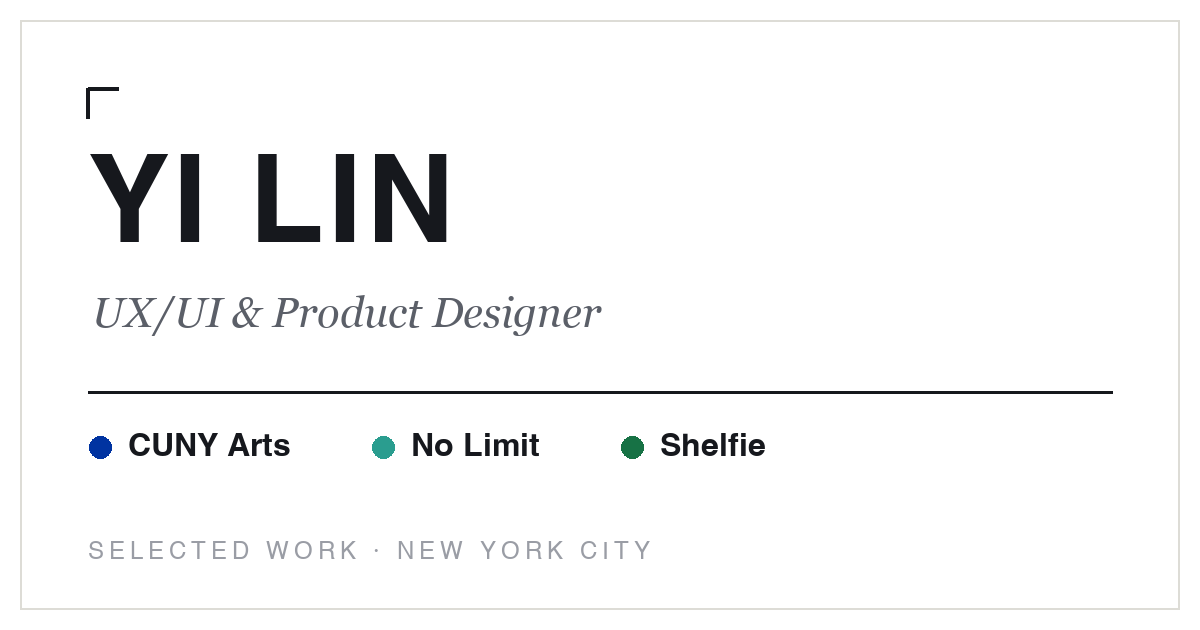
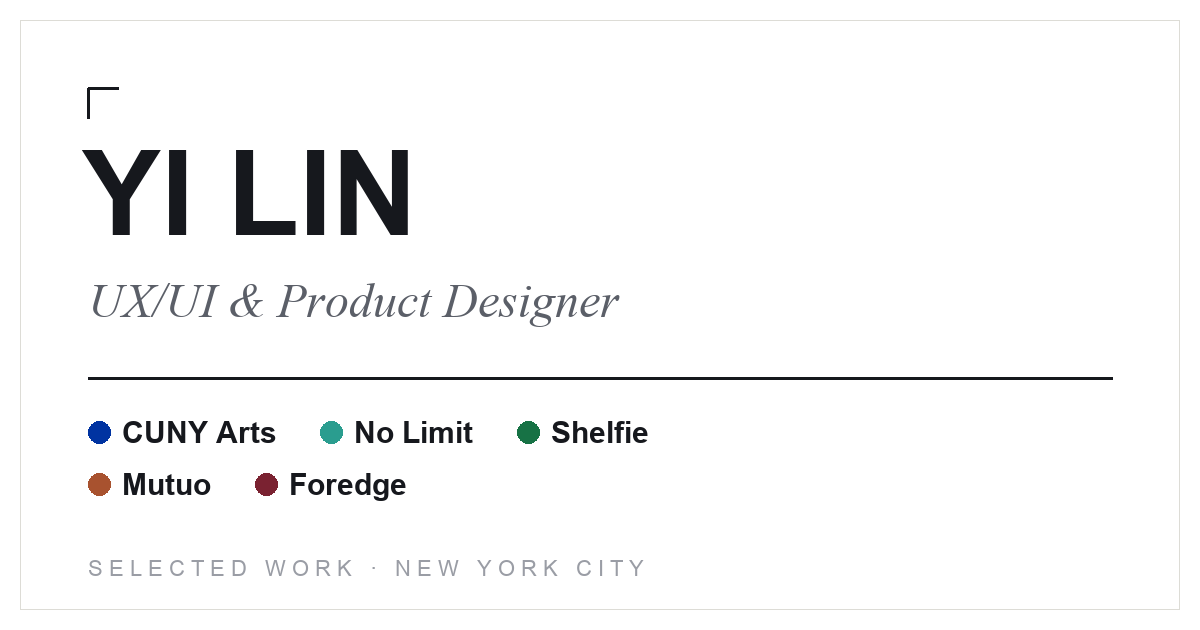
Add Mutuo and Foredge as AI-built case studies
Two deployed full-stack apps join the three prototype case studies, both
designed and built with an AI coding agent — which is the thing they are
here to show.

- Mutuo (04): skill-swapping directory, re-read end to end and repaired
  against a test suite. The CTA now points at the live deployment; the
  repo link and `npm test` note move into the caveat under it.
- Foredge (05): reading log over the Open Library API. New --foredge
  accent for both themes, and a shelf-and-tick-gauge motif.

An optional `build` field on a case is what marks it as AI-built: it
adds the "Built with AI" chip to the card footer and a third "Built
with" column to the viewer meta row. `protoLabel` and `role` join it as
optional overrides for the CTA text and the meta row.

Foredge's IA block aligns on the left edge with indentation only —
.iablock is set in a proportional font, so space-padded columns drift
apart across rows whose labels differ in width or weight.

og.png redrawn from the same tokens to carry all five case names on two
rows; meta descriptions, og:image:alt, README and CLAUDE.md follow.

diff --git a/index.html b/index.html
@@ -4,7 +4,7 @@
 <meta charset="UTF-8">
 <meta name="viewport" content="width=device-width, initial-scale=1">
 <title>Yi Lin — UX/UI & Product Designer</title>
-<meta name="description" content="Yi Lin is a New York–based UX/UI and product designer. Selected work: CUNY Arts, No Limit, Shelfie.">
+<meta name="description" content="Yi Lin is a New York–based UX/UI and product designer. Selected work: CUNY Arts, No Limit, Shelfie, Mutuo, Foredge.">
 <link rel="canonical" href="https://yilin-11.github.io/">
 
 <link rel="icon" href="favicon.svg" type="image/svg+xml">
@@ -13,16 +13,16 @@
 <meta property="og:type" content="website">
 <meta property="og:url" content="https://yilin-11.github.io/">
 <meta property="og:title" content="Yi Lin — UX/UI & Product Designer">
-<meta property="og:description" content="New York–based UX/UI and product designer. Selected work: CUNY Arts, No Limit, Shelfie — each shipped as a working prototype.">
+<meta property="og:description" content="New York–based UX/UI and product designer. Selected work: CUNY Arts, No Limit, Shelfie, Mutuo, Foredge — interactive prototypes and full-stack apps built with AI.">
 <meta property="og:image" content="https://yilin-11.github.io/og.png">
 <meta property="og:image:width" content="1200">
 <meta property="og:image:height" content="630">
-<meta property="og:image:alt" content="Yi Lin — UX/UI & Product Designer. Selected work: CUNY Arts, No Limit, Shelfie.">
+<meta property="og:image:alt" content="Yi Lin — UX/UI & Product Designer. Selected work: CUNY Arts, No Limit, Shelfie, Mutuo, Foredge.">
 <meta property="og:site_name" content="Yi Lin">
 
 <meta name="twitter:card" content="summary_large_image">
 <meta name="twitter:title" content="Yi Lin — UX/UI & Product Designer">
-<meta name="twitter:description" content="New York–based UX/UI and product designer. Selected work: CUNY Arts, No Limit, Shelfie — each shipped as a working prototype.">
+<meta name="twitter:description" content="New York–based UX/UI and product designer. Selected work: CUNY Arts, No Limit, Shelfie, Mutuo, Foredge — interactive prototypes and full-stack apps built with AI.">
 <meta name="twitter:image" content="https://yilin-11.github.io/og.png">
 
 <link rel="preconnect" href="https://fonts.googleapis.com">
@@ -32,7 +32,7 @@
 :root{
   --paper:#FFFFFF; --ink:#16181D; --ink-2:#5B5F68; --ink-3:#9A9DA5;
   --line:#DDDCD6; --line-2:#C2C1BA; --card:#FFFFFF;
-  --cuny:#0033A1; --nolimit:#2A9D8F; --shelfie:#177245;
+  --cuny:#0033A1; --nolimit:#2A9D8F; --shelfie:#177245; --mutuo:#A8522F; --foredge:#7A2231;
   --sg:'Space Grotesk',system-ui,sans-serif;
   --ss:'Source Serif 4',Georgia,serif;
 }
@@ -40,7 +40,7 @@
   :root{
     --paper:#121316; --ink:#EDECE8; --ink-2:#A8ABB2; --ink-3:#6B6E76;
     --line:#26282D; --line-2:#3A3D44; --card:#1A1C20;
-    --cuny:#5B82E0; --nolimit:#4DBFAF; --shelfie:#3FA372;
+    --cuny:#5B82E0; --nolimit:#4DBFAF; --shelfie:#3FA372; --mutuo:#D4835C; --foredge:#E28B98;
   }
 }
 *{box-sizing:border-box;margin:0;padding:0}
@@ -99,7 +99,9 @@ nav.worknav .dot{width:7px;height:7px;border-radius:50%;flex-shrink:0}
 .wc-body h3{font-weight:700;font-size:21px;letter-spacing:-.01em}
 .wc-body h3 .thin{font-weight:400;color:var(--ink-2)}
 .wc-body .hook{font-family:var(--ss);font-style:italic;font-size:14px;color:var(--ink-2);margin-top:4px}
-.wc-foot{border-top:1px solid var(--line);margin-top:14px;padding-top:10px;display:flex;justify-content:space-between;font-size:11px;letter-spacing:.08em;color:var(--ink-3)}
+.wc-foot{border-top:1px solid var(--line);margin-top:14px;padding-top:10px;display:flex;justify-content:space-between;gap:12px;font-size:11px;letter-spacing:.08em;color:var(--ink-3)}
+.wc-foot .built{color:var(--acc);font-weight:500;white-space:nowrap;display:flex;align-items:center;gap:5px}
+.wc-foot .built::before{content:"";width:5px;height:5px;border-radius:50%;background:var(--acc)}
 
 .list{display:none;flex-direction:column}
 .list .row{
@@ -161,6 +163,7 @@ section.page p+p{margin-top:14px}
 }
 .proto-cta:hover{background:var(--acc);color:var(--paper)}
 .proto-note{font-size:12px;color:var(--ink-3);margin-top:8px;line-height:1.55}
+.proto-note a{color:var(--acc);text-decoration:underline;text-underline-offset:2px}
 
 /* chapter nav pills */
 .chapnav{display:flex;gap:8px;flex-wrap:wrap;margin:28px 0 8px;position:sticky;top:78px;background:var(--paper);padding:10px 0;z-index:4;border-bottom:1px solid var(--line)}
@@ -185,6 +188,7 @@ section.page p+p{margin-top:14px}
 .statgrid b{font-size:22px;font-weight:700;display:block;letter-spacing:-.01em}
 .statgrid span{font-size:11.5px;color:var(--ink-2);line-height:1.4;display:block;margin-top:2px}
 .iablock{font-family:var(--sg);font-size:12.5px;line-height:1.9;background:var(--card);border:1px solid var(--line);padding:18px 20px;margin:14px 0;overflow-x:auto;white-space:pre;color:var(--ink-2)}
+code{font-family:var(--sg);font-size:.88em;background:var(--card);border:1px solid var(--line);border-radius:4px;padding:1px 6px;color:var(--ink);white-space:nowrap}
 .iablock b{color:var(--ink)}
 .tasklist{border:1px solid var(--line);margin:14px 0}
 .tasklist .trow{display:grid;grid-template-columns:44px 1fr;border-bottom:1px solid var(--line)}
@@ -251,6 +255,8 @@ section.page p+p{margin-top:14px}
       <button onclick="openCase(0)"><span class="num">01</span><span class="dot" style="background:var(--cuny)"></span>CUNY Arts</button>
       <button onclick="openCase(1)"><span class="num">02</span><span class="dot" style="background:var(--nolimit)"></span>No Limit</button>
       <button onclick="openCase(2)"><span class="num">03</span><span class="dot" style="background:var(--shelfie)"></span>Shelfie</button>
+      <button onclick="openCase(3)"><span class="num">04</span><span class="dot" style="background:var(--mutuo)"></span>Mutuo</button>
+      <button onclick="openCase(4)"><span class="num">05</span><span class="dot" style="background:var(--foredge)"></span>Foredge</button>
       <span class="navlab" style="margin-top:28px">Info</span>
       <a href="#about" onclick="toggleDrawer(false)">About</a>
       <a href="#contact" onclick="toggleDrawer(false)">Contact</a>
@@ -278,7 +284,8 @@ section.page p+p{margin-top:14px}
       <h2>About</h2>
       <p><b>I'm a maker and digital designer who helps people build things they didn't think they could.</b> My work runs from responsive redesigns to mobile apps to products that fold AI into everyday routines.</p>
       <p>I hold a B.A. in Digital Design (Magna Cum Laude) from City College. Three instincts carry across everything here: reduce the cost of the first step, design the failure states, and make progress visible.</p>
-      <p>Every case here follows the same spine — <b>Research → Pain points → IA → Wireframes → Validation</b> — and each shipped as a working prototype, not just frames.</p>
+      <p>Every case here follows the same spine — <b>Research → Pain points → IA → Wireframes → Validation</b> — and none of them stops at frames. Three shipped as interactive prototypes; the last two are full-stack apps, deployed and running.</p>
+      <p><b>Those two I designed and built with an AI coding agent.</b> That changes the pace, not the job. Code arrives faster than anyone can read it, so the discipline moves to deciding what to keep: on Mutuo, nothing counted as fixed until a failing test said it was; on Foredge, every way the app can fail got a drawn state instead of a blank screen. I use AI to get to a running app — the decisions inside it are still mine to defend.</p>
     </section>
 
     <section class="page" id="contact">
@@ -441,6 +448,126 @@ const CASES=[
      <div class="trow"><div class="tn">T4</div><div class="tb"><div class="task">Pick a cookable-right-now dish</div><div class="crit">Uses the missing badges and sorting, ≤ 20 s</div></div></div>
    </div>
    <p>AI-specific metrics extend standard usability: <b>recognition acceptance rate</b>, <b>correction behavior rate</b> (if nobody ever corrects, the confirmation step is theater), <b>recommendation adoption</b>, per-path import success, and <b>failure-path completion</b> — after a link fails, how many users follow the fallback and succeed. North star post-launch: at least one full photo → cook loop per week, with Use-soon consumption vs expiry-deletion as the waste-reduction proof.</p>`]
+},
+/* ---------- 04 · MUTUO ---------- */
+{
+  key:'mutuo', acc:'var(--mutuo)', name:'Mu<span class="thin">tuo</span>', plain:'Mutuo',
+  type:'Full-stack repair · failure-state design', stack:'Express · Sequelize · JS',
+  role:'Solo — design and code', build:'Claude Code',
+  proto:'https://mutuo-demo.vercel.app/', protoLabel:'Open the live app ↗',
+  protoNote:'A real deployment, seeded with twelve members — the login page offers a demo account and fills the form in for you. First request after an idle spell waits on a cold start. <a href="https://github.com/yilin-11/mutuo" target="_blank" rel="noopener">Source on GitHub ↗</a> — every defect below has a test that fails without its fix; clone it and run <code>npm test</code>.',
+  hook:'Teach what you know, learn what you don’t.',
+  lede:['Mutuo is a skill-swapping directory: each member lists one skill they can teach and one they want to learn, then finds someone nearby to trade with. I built it early, while I was still learning the stack.',
+        'Coming back to it, the interesting failures were not the ones that crashed. They were the ones that looked like nothing had happened — a save button that quietly discarded the form, a page that rendered blank with no error, a directory that looked broken because it was empty. This case is that second pass: reading my own code for the states I never designed.',
+        'I did that pass with an AI coding agent, which is why the case is written around a test suite rather than a diff. Code arrives faster than anyone can review it by eye, so the working rule was that nothing counted as a defect until a failing test reproduced it, and nothing counted as fixed until that test passed. Chapter 05 has the one place that rule paid for itself — the obvious fix was wrong, and the test is what said so.'],
+  motif:`<svg viewBox="0 0 640 360" fill="none" role="img" aria-label="Two skill tags exchanging, one each way"><rect x="96" y="118" width="182" height="70" rx="12" stroke="var(--mutuo)" stroke-width="3"/><text x="187" y="163" text-anchor="middle" font-family="Space Grotesk" font-weight="700" font-size="25" fill="var(--mutuo)">TEACH</text><rect x="362" y="172" width="182" height="70" rx="12" stroke="var(--mutuo)" stroke-width="3"/><text x="453" y="217" text-anchor="middle" font-family="Space Grotesk" font-weight="700" font-size="25" fill="var(--mutuo)">LEARN</text><path d="M288 148 H 352" stroke="var(--ink-2)" stroke-width="2.5" stroke-linecap="round"/><path d="M342 140 L 352 148 L 342 156" stroke="var(--ink-2)" stroke-width="2.5" stroke-linecap="round" stroke-linejoin="round"/><path d="M352 212 H 288" stroke="var(--ink-2)" stroke-width="2.5" stroke-linecap="round"/><path d="M298 204 L 288 212 L 298 220" stroke="var(--ink-2)" stroke-width="2.5" stroke-linecap="round" stroke-linejoin="round"/><text x="320" y="296" text-anchor="middle" font-family="Source Serif 4" font-style="italic" font-size="17" fill="var(--ink-2)">one each way</text></svg>`,
+  chapters:[
+  `<p>No user study here — this was an audit of a shipped thing. I read all 35 source files end to end, then wrote tests that pinned down what the app <i>actually did</i> rather than what it looked like it did. Where behaviour and intent disagreed, the test recorded the behaviour first, and the fix came second.</p>
+   <div class="statgrid">
+     <div><b>1,651</b><span>lines of application code, read line by line</span></div>
+     <div><b>13</b><span>defects found and reproduced</span></div>
+     <div><b>10</b><span>of those gave the person using the app no signal at all</span></div>
+     <div><b>37</b><span>tests written to hold the repairs in place</span></div>
+   </div>
+   <p>That third number is the finding. Only two of the thirteen announced themselves as a crash, and exactly one produced an error message — which pointed at the wrong form. Everything else failed the way software fails a person who has no console open: <b>the screen simply did not change</b>. A designer's instinct is to ask what a screen shows when things go wrong; this codebase mostly answered "nothing."</p>`,
+  `<p>Restated as the sentences a member would actually say:</p>
+   <ul>
+     <li><b>"I filled in the form and pressed save. Nothing happened."</b> Submit was wired to a link, so the browser navigated away before the request finished. The profile was never written — and the app said so in no way whatsoever.</li>
+     <li><b>"The page is blank."</b> Asset paths were relative, so the same profile URL worked with one trailing slash and loaded no JavaScript at all without it. A white screen, no error, nothing to report.</li>
+     <li><b>"It says my email is taken. I wasn't changing my email."</b> Two rapid submits collided in the database, and the collision was reported using the signup form's error copy. The one visible message in the system was about the wrong screen.</li>
+     <li><b>"There's nobody here."</b> A new install opened onto an empty directory and an empty random match. Indistinguishable from broken.</li>
+     <li><b>"I typed my password wrong and it just sat there."</b> The failure was written to the developer console. The person looking at the form got no response of any kind.</li>
+     <li><b>"It logged me out again."</b> Sessions lived in memory, so every restart silently signed everybody out mid-task.</li>
+   </ul>`,
+  `<p>The structural question was not where pages sat in a menu — it was <b>which side of the login each thing lived on</b>, and the old answer was inconsistent. Pages were guarded; the data behind them was not. The directory page required a session, while the request that filled it with every member's name, city and email address answered anyone at all.</p>
+   <div class="iablock"><b>Public</b>      landing · log in · sign up
+<b>Members</b>     directory · profile form · random match · member detail
+<b>Data</b>        every member-facing request now sits on the members side,
+            including the one that resolves a postal code to a map pin</div>
+   <p>A second boundary was physical rather than logical. Page files were sitting inside the folder the server hands out verbatim, so the member area could be fetched by its filename without ever passing the login check — the guard was real, and the pages were reachable around it. Moving them out was the fix; the lesson was that <b>an access rule is only as good as the path that cannot skip it</b>.</p>`,
+  `<p>Then the part that was actually missing: the states nobody had drawn. Each screen had one design — the happy one. These are the rest, and every one of them is now a deliberate choice rather than an accident.</p>
+   <ul>
+     <li><b>Empty.</b> A fresh directory now ships with ten members forming five reciprocal pairs, so the first screen demonstrates the idea instead of implying failure. "No members yet — be the first" replaces blankness when it really is empty.</li>
+     <li><b>No results.</b> Searching now says which term found nothing, quoted back, rather than emptying the page.</li>
+     <li><b>Working.</b> The random match disables its own button and says "Finding someone…" instead of appearing inert.</li>
+     <li><b>Rejected.</b> Form errors name the field and say what is wrong, in the voice of the form being filled in — never the neighbouring one.</li>
+     <li><b>Expired.</b> A session that ran out returns the member to the login page, rather than printing "you need to be logged in" onto a directory that has nothing in it.</li>
+     <li><b>Too many attempts.</b> Repeated failed logins are refused with a wait time attached, so the limit is legible instead of feeling like a fault.</li>
+     <li><b>Not found.</b> A member id that does not exist says so, distinct from a member who exists but has filled in nothing.</li>
+   </ul>`,
+  `<p>Validated by execution, not by users — and that distinction matters enough to state plainly. This was a correctness pass, so the instrument is a test suite that drives the real application end to end: 37 tests over 514 lines, each named for the defect it holds down.</p>
+   <div class="tasklist">
+     <div class="trow"><div class="tn">T1</div><div class="tb"><div class="task">Fetch the directory with no session</div><div class="crit">Refused. Before the fix it returned every member's email address</div></div></div>
+     <div class="trow"><div class="tn">T2</div><div class="tb"><div class="task">Request a member page by its filename</div><div class="crit">Not found. Before the fix it served the member area around the guard</div></div></div>
+     <div class="trow"><div class="tn">T3</div><div class="tb"><div class="task">Submit the profile form twice at once</div><div class="crit">Both save, one profile exists, no error about an unrelated form</div></div></div>
+     <div class="trow"><div class="tn">T4</div><div class="tb"><div class="task">Load a member page with a trailing slash</div><div class="crit">Assets referenced absolutely, so the page is never blank</div></div></div>
+   </div>
+   <p>One test earned its keep by rejecting my first fix. The textbook repair for the double-submit collision is the framework's own <code>findOrCreate</code>; the test came back red, because that call opens a transaction and this database will not run two at once. The version that shipped lets the database's uniqueness rule settle the race instead, and losing it simply means reading again. <b>I would have shipped the wrong fix without a test to argue with.</b></p>
+   <p class="proto-note" style="margin-top:18px">The honest gap: no usability study was run. Every claim above is about behaviour I could reproduce and now prevent — not about whether the repaired flows test well with people. That is the next pass, and the states in chapter 04 are what I would put in front of them first.</p>`]
+},
+/* ---------- 05 · FOREDGE ---------- */
+{
+  key:'foredge', acc:'var(--foredge)', name:'Fore<span class="thin">dge</span>', plain:'Foredge',
+  type:'Full-stack app · third-party API', stack:'Express · PostgreSQL · EJS',
+  role:'Solo — design and code', build:'Claude Code',
+  proto:'https://foredge.onrender.com/', protoLabel:'Open the live app ↗',
+  protoNote:'Deployed and running, with five books already on the shelf. The free tier sleeps after fifteen minutes idle, so a first visit can take up to a minute to wake — everything after that is instant. <a href="https://github.com/yilin-11/foredge" target="_blank" rel="noopener">Source on GitHub ↗</a>',
+  hook:'What stays after the last page.',
+  lede:['Foredge is a reading log for one person. Search a title and Open Library fills in the author, the cover, the year and the ISBN; you supply the rating, the finish date and the notes. It sorts by rating, recency or title, and it lives in a PostgreSQL database rather than inside somebody else’s social network.',
+        'The fore edge is the outer edge of a book’s pages, opposite the spine — the rough stack of paper your thumb runs along when you flip through. The rating here is drawn after it: ten short vertical ticks, not stars. The name points at the one decision the whole interface is built around, so the two explain each other.',
+        'This one was built end to end with an AI coding agent and then actually deployed, which is the point of putting it here: the case below is organised around the decisions that were mine to make, because those are the part the agent could not supply.'],
+  motif:`<svg viewBox="0 0 640 360" fill="none" role="img" aria-label="A shelf of book spines beside a ten-tick fore-edge rating gauge"><path d="M84 232 H 336" stroke="var(--ink-2)" stroke-width="3" stroke-linecap="round"/><rect x="92" y="138" width="22" height="94" stroke="var(--ink-2)" stroke-width="2.5"/><rect x="119" y="116" width="26" height="116" stroke="var(--ink-2)" stroke-width="2.5"/><rect x="150" y="148" width="20" height="84" stroke="var(--ink-2)" stroke-width="2.5"/><rect x="175" y="84" width="28" height="130" fill="var(--foredge)"/><rect x="208" y="130" width="22" height="102" stroke="var(--ink-2)" stroke-width="2.5"/><rect x="235" y="110" width="25" height="122" stroke="var(--ink-2)" stroke-width="2.5"/><rect x="265" y="142" width="20" height="90" stroke="var(--ink-2)" stroke-width="2.5"/><rect x="290" y="122" width="26" height="110" stroke="var(--ink-2)" stroke-width="2.5"/><text x="404" y="132" font-family="Space Grotesk" font-weight="700" font-size="24" fill="var(--foredge)">7 / 10</text><rect x="404" y="150" width="4" height="54" fill="var(--foredge)"/><rect x="418" y="150" width="4" height="54" fill="var(--foredge)"/><rect x="432" y="150" width="4" height="54" fill="var(--foredge)"/><rect x="446" y="150" width="4" height="54" fill="var(--foredge)"/><rect x="460" y="150" width="4" height="54" fill="var(--foredge)"/><rect x="474" y="150" width="4" height="54" fill="var(--foredge)"/><rect x="488" y="150" width="4" height="54" fill="var(--foredge)"/><rect x="502" y="150" width="4" height="54" fill="var(--line-2)"/><rect x="516" y="150" width="4" height="54" fill="var(--line-2)"/><rect x="530" y="150" width="4" height="54" fill="var(--line-2)"/><text x="320" y="300" text-anchor="middle" font-family="Source Serif 4" font-style="italic" font-size="17" fill="var(--ink-2)">ten ticks, not five stars</text></svg>`,
+  chapters:[
+  `<p>The research here was not about people, it was about an API — because what the machine can fill in decides what the reader has to type, and a reading log dies at exactly the point where logging a book means copying a title, an author, a year and a cover URL by hand. So I read Open Library’s search and cover endpoints before drawing anything.</p>
+   <div class="statgrid">
+     <div><b>6</b><span>fields one title search can fill in for you</span></div>
+     <div><b>4</b><span>fields only the reader can supply</span></div>
+     <div><b>2</b><span>ways covers are served, neither guaranteed</span></div>
+     <div><b>1</b><span>table, because the data is genuinely one row per book</span></div>
+   </div>
+   <p>Two findings shaped everything after. First, <b>covers cannot be assumed</b>. Open Library serves them by cover id and by ISBN; one ISBN can point at several editions, and not every edition has artwork at all. Any design that treats a cover as a given will show broken images on somebody’s real shelf — so both identifiers are stored, cover id is tried first, and a book with neither gets a drawn spine rather than a gap.</p>
+   <p>Second, the schema splits cleanly in two, and that split <i>is</i> the product. <b>Title, author, ISBN, cover, year</b> are facts a lookup already knows. <b>Rating, finish date, takeaway, notes</b> are the only things that are actually yours. The machine does the clerical half; every field the reader touches is one no API could have answered.</p>`,
+  `<p>Stated as the sentences a reader would say, plus the two nobody would ever report:</p>
+   <ul>
+     <li><b>"I’ll add it later."</b> Four fields of transcription per book is how a log gets abandoned. Search fills them, and title is the only field the form insists on — a rating, a date and notes can all arrive whenever they arrive.</li>
+     <li><b>"The date is off by a day."</b> A <code>DATE</code> column comes back through the driver as a JS <code>Date</code> read in the local timezone, so a book finished on 5 March in New York displays as 4 March. Silently wrong, in the one field the reader typed themselves.</li>
+     <li><b>"That cover is a broken image."</b> The 404 arrives after the page has already rendered, so it cannot be caught server-side — the layout has to survive an image that disappears mid-view.</li>
+     <li><b>"I left the rating blank and it wouldn’t save."</b> An untouched input posts an empty string, and writing <code>""</code> into an <code>INTEGER</code> or <code>DATE</code> column makes PostgreSQL throw. The most common way to fill the form is the way that breaks it.</li>
+     <li><b>"Nothing came back and I don’t know why."</b> Open Library answering with an error and never reaching Open Library at all are one blank result to the reader, and two completely different next moves.</li>
+     <li><b>The one nobody would report.</b> <code>ORDER BY</code> cannot take a parameterised placeholder, so the sort has to be built into the SQL — which is precisely where injection lives.</li>
+     <li><b>The one nobody would click.</b> Browsers and crawlers prefetch links, so a delete route behind an <code>&lt;a&gt;</code> can fire with nobody touching it.</li>
+   </ul>`,
+  `<p>One table. Splitting this into books, authors and notes would add joins and buy nothing, because the data really is one row per book. Tags would change that — one book has many tags, one tag has many books — and until there are tags, one table is the honest answer.</p>
+   <div class="iablock"><b>books</b> — one table, one row per book
+    <b>from Open Library</b> · title · author · isbn · cover_id · ol_key · published
+    <b>from the reader</b> · rating 1–10 · date_read · takeaway · notes
+    <b>indexed on</b> · rating DESC, date_read DESC — the two sorts people use
+
+<b>routes</b>
+    <b>read</b> · GET / — shelf + list, with ?sort= and ?q= · GET /books/:id
+    <b>write</b> · GET /books/new · POST /books · POST /books/:id/edit · POST /books/:id/delete
+    <b>data</b> · GET /api/search — Open Library, reshaped to one known format</div>
+   <p>HTML forms only speak GET and POST, so update and delete both travel over POST rather than pretending to be <code>PUT</code> and <code>DELETE</code>. Two details are load-bearing. <b>The sort parameter is a lookup key, never a string.</b> <code>?sort=</code> only ever selects an entry from a hard-coded table of three orderings, so <code>?sort=;DROP TABLE books</code> quietly falls back to the default; the search keyword takes the normal parameterised treatment. And <b>the API endpoint returns a shape the app owns</b>, not Open Library’s — eight results trimmed to the six fields the form needs, on an eight-second timeout, so an occasionally slow service cannot hang the page.</p>`,
+  `<p>The name is the design decision. The rating is not stars; it is ten short vertical ticks drawn after the fore edge of the pages. That gauge is also why the scale is ten rather than five — <b>ten ticks read as an edge, five read as a row of marks.</b> Everything else follows the same rule: make the state a drawn object rather than an absence.</p>
+   <ul>
+     <li><b>The shelf.</b> Every book is a different height, the way a real shelf looks — hashed from the title rather than randomised, so a book keeps its own height across reloads instead of jumping around the row. Hovering pulls one up out of the shelf; <code>prefers-reduced-motion</code> stops that.</li>
+     <li><b>No cover.</b> A book without artwork becomes a dark spine with its title set vertically. The same object catches the cover that 404s after render, so a failure lands on a designed state instead of a hole.</li>
+     <li><b>Empty shelf.</b> "The shelf is empty. The first book is the hard one," with the add button beside it — the first screen states the next action instead of implying breakage.</li>
+     <li><b>No results.</b> The search term is quoted back, with a way out: <i>Show everything</i>.</li>
+     <li><b>Search that failed.</b> Two messages, because the next move differs. One says Open Library returned an error and to try again; the other says check the connection, or type the details in by hand.</li>
+     <li><b>One form, two jobs.</b> Add and edit share a single template. The sort choice rides along through search as a hidden field, so finding a book never throws away the order you chose.</li>
+     <li><b>The footer is a colophon</b> — in a printed book, the note on how the thing was made. Here it carries the same: where the name comes from, where the covers come from, what it runs on.</li>
+   </ul>`,
+  `<p>Validated against deliberately hostile data rather than against users. A second seed file loads books built to break the interface, and the checks run by hand against them:</p>
+   <div class="tasklist">
+     <div class="trow"><div class="tn">T1</div><div class="tb"><div class="task">Load the shelf with the edge-case seed</div><div class="crit">A title long enough to wrap three times, a non-Latin title, and one full of quotes and angle brackets all sit in the row without breaking it or escaping into markup</div></div></div>
+     <div class="trow"><div class="tn">T2</div><div class="tb"><div class="task">Open a book whose cover 404s</div><div class="crit">Falls back to the drawn spine after the failure — never a broken image</div></div></div>
+     <div class="trow"><div class="tn">T3</div><div class="tb"><div class="task">Visit <code>/?sort=;DROP TABLE books</code></div><div class="crit">Falls back to the default order, because the parameter is only ever a lookup key</div></div></div>
+     <div class="trow"><div class="tn">T4</div><div class="tb"><div class="task">Search with the network set to offline</div><div class="crit">Shows the unreachable message and the type-it-in-by-hand fallback, not the service-error one</div></div></div>
+   </div>
+   <p>Checked on every pass alongside those: ratings at 1, at 10 and absent; books with no notes; thirty filler titles to see a full shelf; keyboard tab order and focus rings; reduced motion; and the layout at 375px and either side of the 720px breakpoint. The deployment carries one more decision — the database is Neon rather than the host’s own, because that host deletes free PostgreSQL instances after thirty days, and a link in a portfolio has to outlive that.</p>
+   <p>And the AI question, answered plainly: an agent wrote most of these lines and none of these decisions. Ten ticks instead of five stars, one table instead of three, a lookup key instead of a concatenated string, a drawn spine instead of a broken image, two failure messages instead of one — that list is the case study, and it is the part I brought. <b>Generating a reading log takes minutes now; knowing what the screen should say when Open Library is down is still the job.</b></p>
+   <p class="proto-note" style="margin-top:18px">The honest gap, as with Mutuo: no usability study. The states above are reasoned and reproducible, not yet tested with readers.</p>`]
 }
 ];
 
@@ -454,7 +581,7 @@ function renderWorkspace(){
         <div class="wc-tag"><i></i>${c.type}</div>
         <h3>${c.name}</h3>
         <p class="hook">${c.hook}</p>
-        <div class="wc-foot"><span>${c.stack}</span></div>
+        <div class="wc-foot"><span>${c.stack}</span>${c.build?`<span class="built">Built with AI</span>`:''}</div>
       </div>
     </button>`).join('');
   $('listEl').innerHTML=CASES.map((c,i)=>`
@@ -488,10 +615,11 @@ function openCase(i){
         <p class="v-hook" style="color:${c.acc}">${c.hook}</p>
         <div class="v-meta">
           <div><span class="lab">Stack</span><span class="val">${c.stack}</span></div>
-          <div><span class="lab">Role</span><span class="val">Solo designer</span></div>
+          <div><span class="lab">Role</span><span class="val">${c.role||'Solo designer'}</span></div>
+          ${c.build?`<div><span class="lab">Built with</span><span class="val" style="color:${c.acc}">${c.build}</span></div>`:''}
         </div>
         ${c.lede.map(p=>`<p class="lede">${p}</p>`).join('')}
-        <a class="proto-cta" href="${c.proto}" target="_blank" rel="noopener">Open the live prototype ↗</a>
+        <a class="proto-cta" href="${c.proto}" target="_blank" rel="noopener">${c.protoLabel||'Open the live prototype ↗'}</a>
         <p class="proto-note">${c.protoNote}</p>
         <nav class="chapnav" aria-label="Chapters">
           ${CHAPS.map((ch,n)=>`<a href="#chap-${n}" onclick="jumpChap(event,${n})">${'0'+(n+1)} ${ch}</a>`).join('')}

diff --git a/CLAUDE.md b/CLAUDE.md
@@ -16,8 +16,8 @@ python3 -m http.server 8000    # then open http://localhost:8000
 
 | Path | Status | What it is |
 | --- | --- | --- |
-| `index.html` | **active** | The entire portfolio — single self-contained file (~530 lines, inline `<style>` + `<script>`) |
-| `prototypes/*.html` | **active** | Three self-contained interactive prototypes linked from the case studies |
+| `index.html` | **active** | The entire portfolio — single self-contained file (~670 lines, inline `<style>` + `<script>`) |
+| `prototypes/*.html` | **active** | Three self-contained interactive prototypes linked from the first three case studies |
 | `mmp210/`, `mmp240/`, `citymail/` | archived | Old CUNY coursework, kept as-is for links that may exist in the wild |
 
 Treat the archived directories as frozen artifacts: fix them only if asked, and don't "modernize" or refactor them. They contain intentional oddities (e.g. the misspelled `mmp240/craigslist_redesign/stlyes.css`, p5.js 0.5.6 from CDN in `mmp210/memes` and `mmp210/self-portrait` vs. a vendored `p5.js` in `mmp210/midterm-project`).
@@ -29,9 +29,12 @@ Content and presentation are separated inside the one file: **all case-study con
 Each case object:
 
 - `key`, `plain` (plain-text name), `name` (may contain `<span class="thin">` for the two-tone title treatment)
-- `acc` — the case's accent color, always a CSS var (`var(--cuny)`, `var(--nolimit)`, `var(--shelfie)`), defined for both themes in `:root`
+- `acc` — the case's accent color, always a CSS var (`var(--cuny)`, `var(--nolimit)`, `var(--shelfie)`, `var(--mutuo)`, `var(--foredge)`), defined for both themes in `:root`
 - `type`, `stack` — shown in card footers and the viewer meta row
-- `proto` / `protoNote` — relative path to the prototype file, plus the caveat text under the CTA
+- `proto` / `protoNote` — the CTA target plus the caveat text under it. For cases 01–03 that's a relative path to a `prototypes/*.html` file; for Mutuo and Foredge it's an absolute URL to the deployed app, and `protoNote` carries an inline `<a>` to the GitHub repo.
+- `protoLabel` — optional, overrides the default CTA text `Open the live prototype ↗`
+- `role` — optional, overrides the default `Solo designer` in the viewer meta row
+- `build` — optional. Its presence is what marks a case as AI-built: it adds a `Built with AI` chip to the card footer and a third `Built with` column to the viewer meta row, whose value is this string.
 - `hook`, `lede[]` — one-liner and intro paragraphs
 - `motif` — inline SVG hero/thumbnail
 - `chapters[]` — five HTML strings, positionally matched to `CHAPS = ['Research','Pain points','IA','Wireframes','Validation']`. Adding a chapter means extending both `CHAPS` and every case's `chapters`.
@@ -46,13 +49,13 @@ Rendering flow:
 Chapter HTML uses a fixed set of styled blocks — reuse them instead of inventing new ones:
 
 - `.statgrid` with `<div><b>number</b><span>caption</span></div>` — audit metrics
-- `.iablock` — preformatted information-architecture tree (whitespace is significant)
+- `.iablock` — preformatted information-architecture tree (whitespace is significant). It is set in Space Grotesk, a **proportional** font, so space-padded columns do not line up across rows whose labels differ in width or weight. Align on the left edge with indentation only, and let the rest of each line run inline after a `·` separator (see the Foredge block); do not build multi-column tables out of spaces.
 - `.tasklist` > `.trow` > `.tn` + `.tb` (`.task` + `.crit`) — usability test tasks and success criteria
 - plain `<ul><li><b>Lead-in.</b> …</li></ul>` — pain points and design decisions
 
 ### Head assets
 
-`og.png` (1200×630), `favicon.svg`, and `apple-touch-icon.png` sit at the repo root and are referenced from `<head>` with absolute `https://yilin-11.github.io/…` URLs for the Open Graph tags (relative URLs are not resolved by most crawlers). `og.png` bakes in the name and the tagline, so **if the `<title>` or the sidebar `.disc` line changes, the image is now stale** — it was generated with Pillow from the site's own tokens (paper/ink/line colors, the `.reg-mini` corner mark, the three case accent colors) and has to be redrawn, not edited.
+`og.png` (1200×630), `favicon.svg`, and `apple-touch-icon.png` sit at the repo root and are referenced from `<head>` with absolute `https://yilin-11.github.io/…` URLs for the Open Graph tags (relative URLs are not resolved by most crawlers). `og.png` bakes in the name, the tagline, and a dot-and-label for every case, so **if the `<title>`, the sidebar `.disc` line, or the case list changes, the image is now stale** — it is generated with Pillow from the site's own tokens (paper/ink/line colors, the `.reg-mini` corner mark, each case accent color) and has to be redrawn, not edited. No generator script is checked in; redraw it at 1200×630 with Pillow using Arial Bold and Times New Roman Italic from `/System/Library/Fonts/Supplemental/`, and keep `og:image:alt` in sync with the names on the card.
 
 ### Conventions to preserve
 

diff --git a/README.md b/README.md
@@ -8,23 +8,27 @@ Static site: hand-written HTML/CSS/JS, no build step, no dependencies, no framew
 
 ## Selected work
 
-Three case studies, each following the same spine — Research → Pain points → IA → Wireframes → Validation — and each shipped as a working prototype rather than static frames.
+Five case studies, each following the same spine — Research → Pain points → IA → Wireframes → Validation — and none of them stopping at static frames.
 
-| Case | What it is | Prototype |
+| Case | What it is | Try it |
 | --- | --- | --- |
 | **CUNY Arts** | Responsive redesign of a page that buried free museum access for CUNY students in an 8,000-word long-read. Restructured into a filterable partner index with a map view. | [`prototypes/cuny-arts.html`](prototypes/cuny-arts.html) |
 | **No Limit** | Intermittent-fasting app collapsing timer, body metrics, and community into one place, rebuilt in a v2 around frequency-first IA and non-shaming copy. | [`prototypes/no-limit.html`](prototypes/no-limit.html) |
 | **Shelfie** | AI-native pantry app: photograph groceries instead of typing them, then cook from what's about to expire. | [`prototypes/shelfie.html`](prototypes/shelfie.html) |
+| **Mutuo** | Skill-swapping directory — teach one thing, learn another. An early full-stack project, re-read end to end and repaired against a test suite. | [live app](https://mutuo-demo.vercel.app/) · [repo](https://github.com/yilin-11/mutuo) |
+| **Foredge** | Personal reading log. Open Library fills in the author, cover and ISBN; you supply the rating, the date and the notes. | [live app](https://foredge.onrender.com/) · [repo](https://github.com/yilin-11/foredge) |
 
-Each prototype is a single self-contained file with its own design system — they're meant to look like three different products, not three pages of one site.
+The first three are single self-contained prototype files, each with its own design system — meant to look like three different products, not three pages of one site. **Mutuo and Foredge are full-stack apps, designed and built with an AI coding agent and deployed** — Express + Sequelize and Express + PostgreSQL respectively, both live and both with their source in the open.
 
 > **Note on Shelfie:** its AI features (photo recognition, recipe generation, recipe import) call the Anthropic API and expect a credentialed backend, so they don't run from a static host. The UI and all flows are fully explorable; the AI paths surface their designed error states instead.
+>
+> **Note on the two live apps:** both run on free tiers that sleep when idle, so a first visit can take up to a minute to wake up. Mutuo's login page offers a seeded demo account and fills the form in for you.
 
 ## Repository layout
 
 ```
 index.html          the portfolio — case study content, styles, and JS in one file
-prototypes/         the three interactive prototypes
+prototypes/         the three interactive prototypes (Mutuo and Foredge live in their own repos)
 og.png              social share card
 favicon.svg         also apple-touch-icon.png
 mmp210/             archived coursework — p5.js sketches
